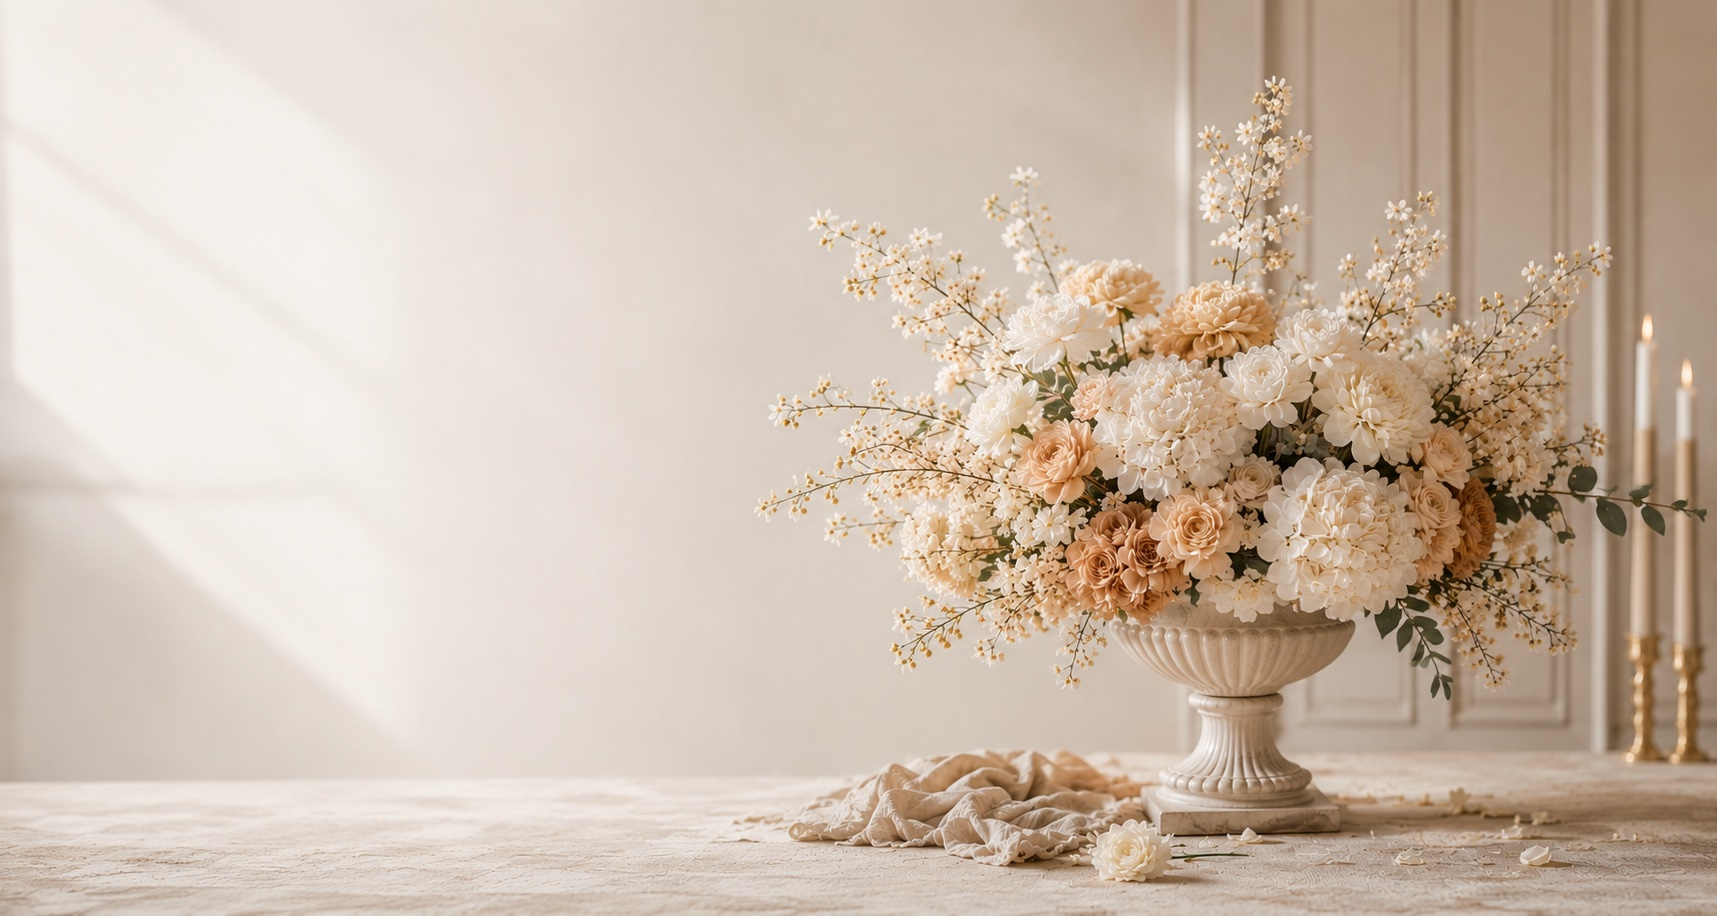
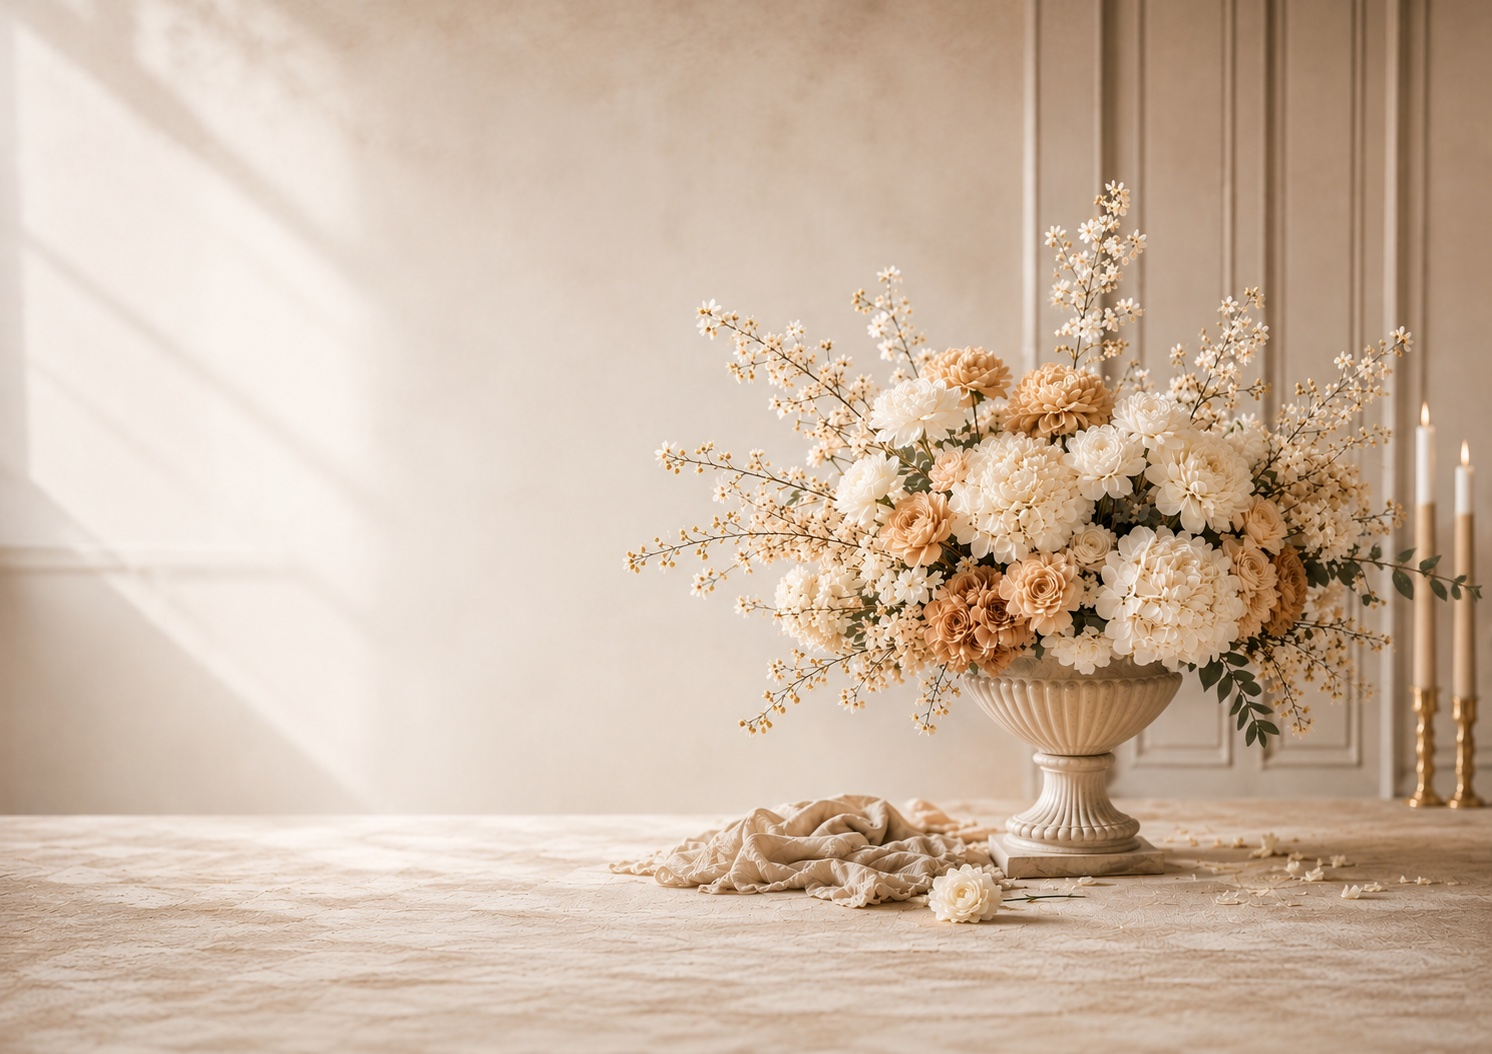
Replace hero image with new bouquet, force full-bleed across viewport
.hero now uses max-width: none !important to override the global 1440px cap.
Image stretches edge-to-edge on any monitor while .hero-inner keeps the
text/quote content within the 1440 layout grid.

diff --git a/index.html b/index.html
@@ -168,6 +168,9 @@
       min-height: clamp(640px, 86vh, 880px);
       position: relative;
       overflow: hidden;
+      max-width: none !important;       /* full-bleed image across full viewport */
+      width: 100%;
+      margin: 0;
       background:
         linear-gradient(90deg, rgba(245,240,232,.9) 0%, rgba(245,240,232,.6) 32%, rgba(0,0,0,0) 55%),
         url('hero.jpg') center/cover no-repeat;